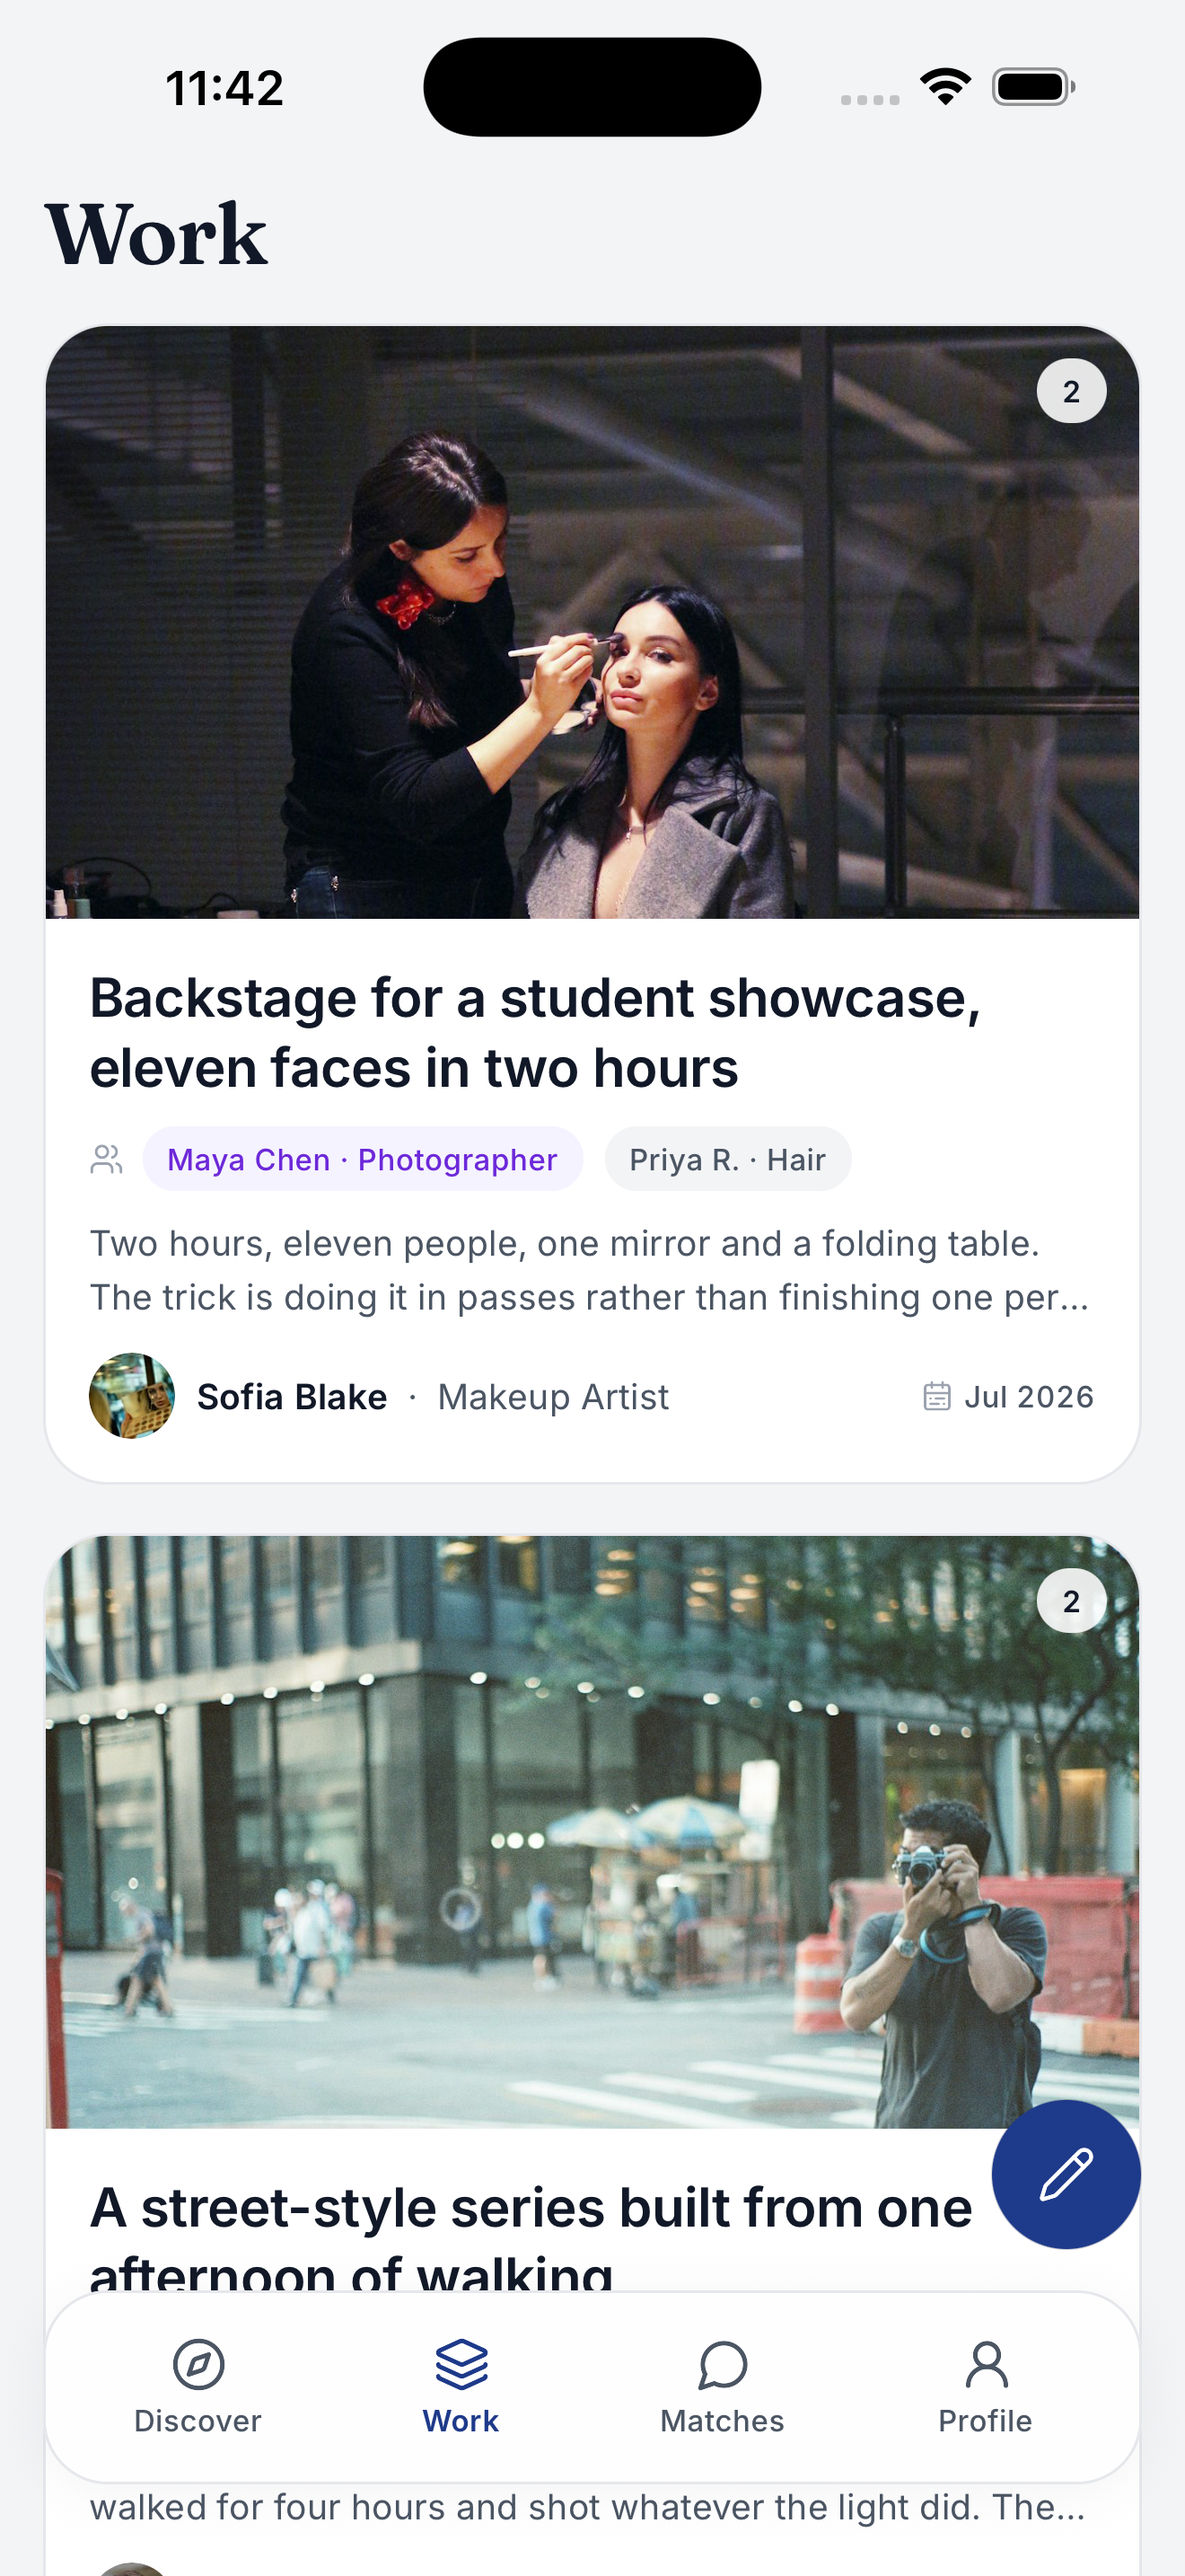
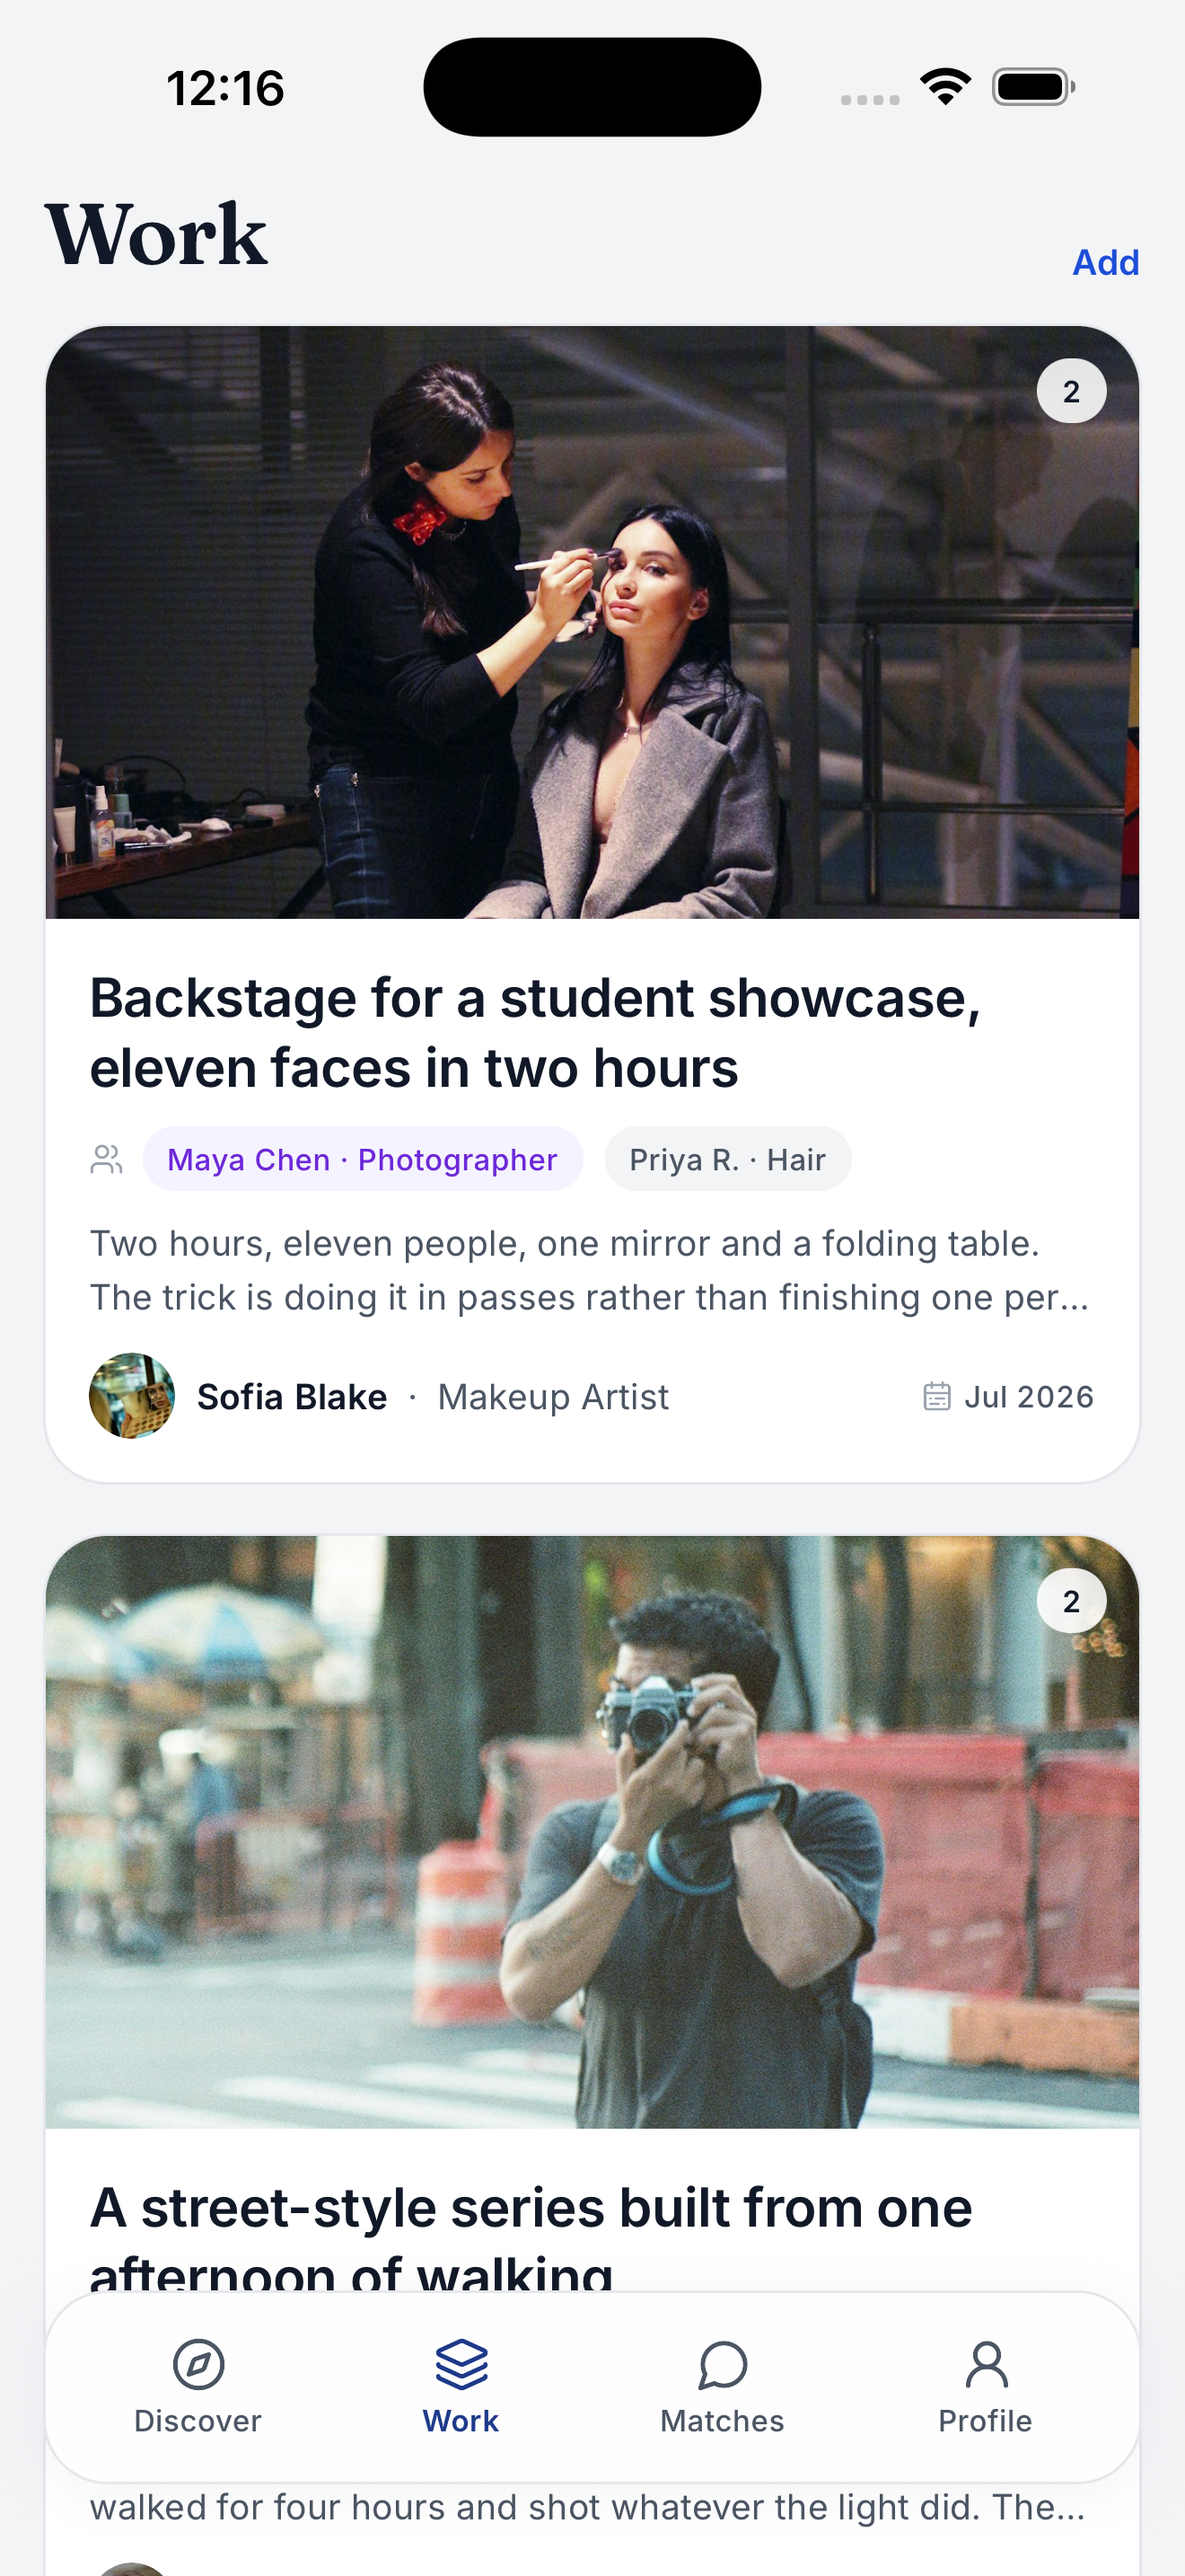
Respect the composed crop; move compose out of the list
Two defects from the screenshot review.

The Discover hero re-cropped the photograph. sized() overwrote the w and h
already on the URL with the card's own frame, which on a Pro Max poster is a
0.54 aspect — a slice so tall and narrow out of a landscape master that
imgix's entropy fallback locked onto the busiest region instead of the
subject. The photographer ended up at the right edge, half out of frame,
behind an in-focus market stall. A stored URL carrying crop= with explicit
w/h has been composed deliberately (the seed data serves 3:4 framed on the
subject), so keep that aspect and raise only the density enough to cover the
frame. The final trim to the frame's shape is contentFit: cover's job, and a
centre trim of a subject-centred 3:4 is safe. Clamping now happens on the
long edge so it cannot quietly reshape what we just preserved.

The Work feed's compose button hovered over the list and sat on a card title.
Padding only fixes the end of the list; a floating button covers content at
every other scroll position too. The profile already puts this exact action
in a section header, so Work does the same and the button is gone.

diff --git a/mobile/src/lib/imageUrl.ts b/mobile/src/lib/imageUrl.ts
@@ -14,8 +14,21 @@ const MAX_EDGE = 4000;
  * and the scale factor is about 1.1.
  *
  * No amount of layout tuning fixes a 3.6x upscale; the pixels are not there.
- * Unsplash will crop and resample server-side to any aspect we ask for, at
- * full density, so we ask — in device pixels, not points.
+ * Unsplash will crop and resample server-side at full density, so we ask.
+ *
+ * What we must NOT do is pick the crop window ourselves. A stored URL that
+ * already carries `crop=` with explicit `w`/`h` has been composed deliberately
+ * — the seed data serves 3:4 framed on the subject. Overwriting those with the
+ * card's own aspect re-crops from the landscape master at whatever shape the
+ * frame happens to be: on a Pro Max poster that is 0.54, a slice so tall and
+ * narrow that imgix's entropy fallback locks onto the busiest region rather
+ * than the subject. The photographer ended up at the right edge, half out of
+ * frame, behind an in-focus market stall.
+ *
+ * So: when a URL is already composed, keep its aspect and raise only the
+ * density, enough to cover the frame. The final trim to the frame's shape is
+ * `contentFit: "cover"`'s job, and a centre trim of a subject-centred 3:4 is
+ * safe. Uncomposed URLs keep the old behaviour and are cropped by content.
  *
  * Only Unsplash URLs are rewritten. User uploads living in Supabase storage
  * have no such API and are returned untouched.
@@ -23,21 +36,45 @@ const MAX_EDGE = 4000;
 export function sized(uri: string | undefined, widthPt: number, heightPt: number): string | undefined {
   if (!uri || !uri.includes("images.unsplash.com")) return uri;
   const scale = PixelRatio.get();
-  const w = Math.min(MAX_EDGE, Math.round(widthPt * scale));
-  const h = Math.min(MAX_EDGE, Math.round(heightPt * scale));
-  if (w <= 0 || h <= 0) return uri;
+  const frameW = Math.round(widthPt * scale);
+  const frameH = Math.round(heightPt * scale);
+  if (frameW <= 0 || frameH <= 0) return uri;
+
   try {
     const u = new URL(uri);
+    const storedW = Number(u.searchParams.get("w"));
+    const storedH = Number(u.searchParams.get("h"));
+    const composed = u.searchParams.has("crop") && storedW > 0 && storedH > 0;
+
+    let w: number;
+    let h: number;
+
+    if (composed) {
+      // Keep the composition, cover the frame: scale on whichever axis is
+      // short, so neither dimension lands under the frame and nothing is
+      // upscaled by the device.
+      const aspect = storedW / storedH;
+      h = Math.max(frameH, Math.round(frameW / aspect));
+      w = Math.round(h * aspect);
+    } else {
+      // Nothing composed this one, so the frame's shape is as good a guess as
+      // any. Pick the window by content: these are shallow-depth-of-field
+      // frames with the subject off to one side, and a geometric centre crop
+      // lands on the bokeh. Faces first, then entropy for frames with none.
+      w = frameW;
+      h = frameH;
+      u.searchParams.set("crop", "faces,entropy");
+    }
+
+    // Clamp on the long edge, preserving aspect — clamping axes independently
+    // would silently change the shape we just worked to keep.
+    const over = Math.max(w / MAX_EDGE, h / MAX_EDGE, 1);
+    w = Math.round(w / over);
+    h = Math.round(h / over);
+
     u.searchParams.set("w", String(w));
     u.searchParams.set("h", String(h));
     u.searchParams.set("fit", "crop");
-    // Pick the crop by content, not by geometry. These are landscape frames
-    // with shallow depth of field and the subject off to one side; a portrait
-    // window taken from the middle lands squarely on the bokeh, which is why
-    // the hero looked out of focus even at full density. Faces first, then
-    // entropy, which is what actually finds the sharp region in a street
-    // frame where no face is detected.
-    u.searchParams.set("crop", "faces,entropy");
     u.searchParams.set("auto", "format");
     u.searchParams.set("q", "80");
     return u.toString();

diff --git a/mobile/app/(tabs)/stories.tsx b/mobile/app/(tabs)/stories.tsx
@@ -17,10 +17,9 @@ import { BookOpen, CalendarRange, Pencil, Users } from "lucide-react-native";
 import { Avatar } from "@/components/Avatar";
 import { Chip, ChipRow } from "@/components/ui/Chip";
 import { Glass } from "@/components/ui/Glass";
-import { GlassButton } from "@/components/ui/GlassButton";
 import { ErrorBanner } from "@/components/ui/ErrorBanner";
 import { Skeleton } from "@/components/ui/Skeleton";
-import { colors, fonts, GUTTER, radii, shadows, typography } from "@/lib/theme";
+import { colors, fonts, radii, shadows, spacing, typography } from "@/lib/theme";
 import { useBarTop } from "./_layout";
 import { useAuth } from "@/lib/auth";
 import { getStories, storyDate, type StoryWithAuthor } from "@/lib/stories";
@@ -72,7 +71,7 @@ export default function StoriesScreen() {
   return (
     <View style={styles.root}>
       <ScrollView
-        contentContainerStyle={[styles.scroll, { paddingTop: insets.top + 8, paddingBottom: barTop + 24 }]}
+        contentContainerStyle={[styles.scroll, { paddingTop: insets.top + 8, paddingBottom: barTop + spacing.xl }]}
         refreshControl={
           <RefreshControl
             refreshing={refreshing}
@@ -88,6 +87,11 @@ export default function StoriesScreen() {
           <View style={{ flex: 1 }}>
             <Text style={styles.heading}>Work</Text>
           </View>
+          {!unavailable && userId ? (
+            <Pressable onPress={() => router.push("/story/new")} hitSlop={12}>
+              <Text style={styles.headerAction}>Add</Text>
+            </Pressable>
+          ) : null}
         </View>
 
         <ErrorBanner message={error} />
@@ -123,19 +127,6 @@ export default function StoriesScreen() {
           </View>
         )}
       </ScrollView>
-
-      {!unavailable && userId ? (
-        <View style={[styles.fab, { bottom: barTop + 20 }]} pointerEvents="box-none">
-          <GlassButton
-            accessibilityLabel="Post a story"
-            onPress={() => router.push("/story/new")}
-            size={56}
-            solid={colors.brand}
-          >
-            <Pencil size={22} color={colors.onBrand} strokeWidth={1.75} />
-          </GlassButton>
-        </View>
-      ) : null}
     </View>
   );
 }
@@ -223,6 +214,7 @@ const styles = StyleSheet.create({
   scroll: { paddingHorizontal: 16, paddingBottom: 24, gap: 14 },
   header: { flexDirection: "row", alignItems: "flex-end" },
   heading: typography.display1,
+  headerAction: { ...typography.caption, fontFamily: fonts.semibold, color: colors.brandText },
 
   card: {
     borderRadius: radii.lg,
@@ -273,5 +265,4 @@ const styles = StyleSheet.create({
   },
   emptyCtaText: { color: colors.onBrand, fontFamily: fonts.semibold },
 
-  fab: { position: "absolute", right: GUTTER },
 });
